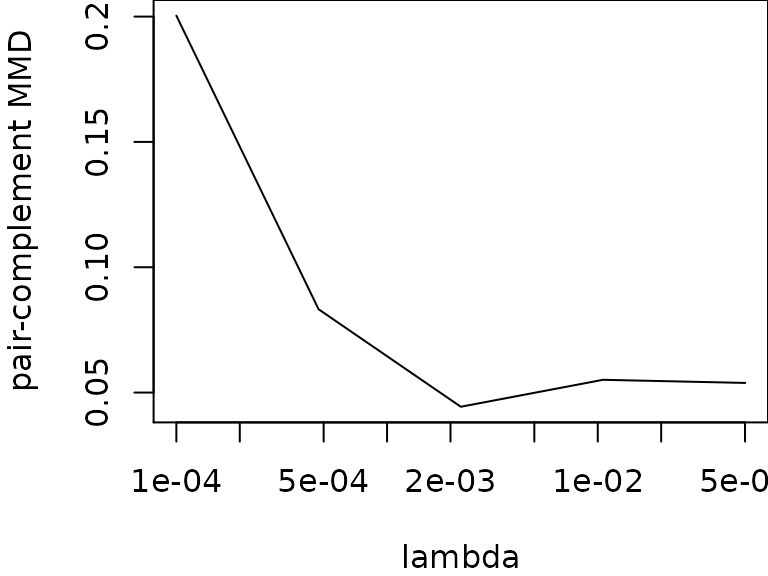
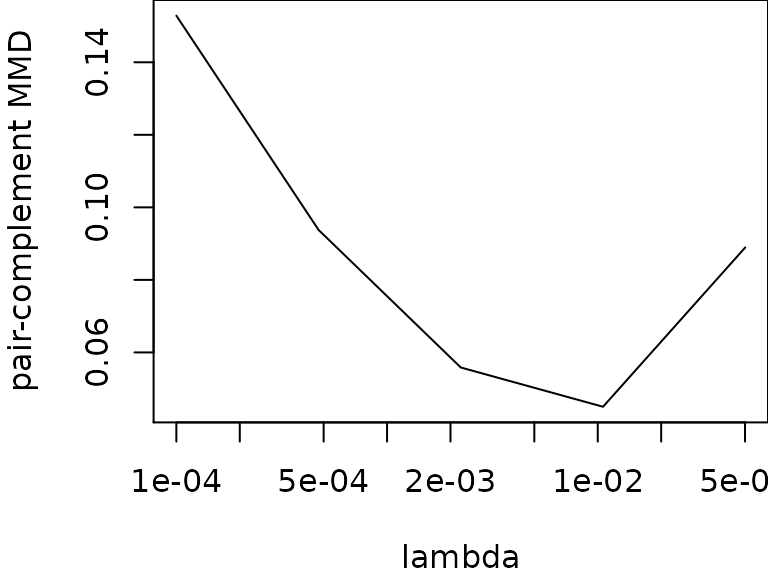
update docs

diff --git a/docs/articles/basic-app.html b/docs/articles/basic-app.html
@@ -104,32 +104,32 @@
 <span class="va">out</span> <span class="op">=</span> <span class="fu"><a href="../reference/fit_pois_glmnet_mmdcv.html">fit_pois_glmnet_mmdcv</a></span><span class="op">(</span><span class="va">X</span>, nlam <span class="op">=</span> <span class="fl">5</span>, nreps <span class="op">=</span> <span class="fl">3</span><span class="op">)</span> 
 <span class="co">#&gt; --- Starting CV ---</span>
 <span class="co">#&gt; Rep 1/3 ... </span>
-<span class="co">#&gt; POIS: glment, global, nocv ... 0.221 (s).</span>
-<span class="co">#&gt; lam = 1.00e-04    [Computing pair-comp. MMD (nBasis = 64, nPairs = 66) ... 0.3 (s).  value = 0.192]</span>
-<span class="co">#&gt; lam = 4.73e-04    [Computing pair-comp. MMD (nBasis = 64, nPairs = 66) ... 0.2 (s).  value = 0.133]</span>
-<span class="co">#&gt; lam = 2.24e-03    [Computing pair-comp. MMD (nBasis = 64, nPairs = 66) ... 0.3 (s).  value = 0.069]</span>
-<span class="co">#&gt; lam = 1.06e-02    [Computing pair-comp. MMD (nBasis = 64, nPairs = 66) ... 0.3 (s).  value = 0.148]</span>
-<span class="co">#&gt; lam = 5.01e-02    [Computing pair-comp. MMD (nBasis = 64, nPairs = 66) ... 0.3 (s).  value = 0.093]</span>
-<span class="co">#&gt; Rep 2/3 ... </span>
-<span class="co">#&gt; POIS: glment, global, nocv ... 0.240 (s).</span>
-<span class="co">#&gt; lam = 1.00e-04    [Computing pair-comp. MMD (nBasis = 64, nPairs = 66) ... 0.3 (s).  value = 0.320]</span>
+<span class="co">#&gt; POIS: glment, global, nocv ... 0.226 (s).</span>
+<span class="co">#&gt; lam = 1.00e-04    [Computing pair-comp. MMD (nBasis = 64, nPairs = 66) ... 0.4 (s).  value = 0.143]</span>
 <span class="co">#&gt; lam = 4.73e-04    [Computing pair-comp. MMD (nBasis = 64, nPairs = 66) ... 0.3 (s).  value = 0.105]</span>
-<span class="co">#&gt; lam = 2.24e-03    [Computing pair-comp. MMD (nBasis = 64, nPairs = 66) ... 0.2 (s).  value = 0.030]</span>
-<span class="co">#&gt; lam = 1.06e-02    [Computing pair-comp. MMD (nBasis = 64, nPairs = 66) ... 0.2 (s).  value = 0.007]</span>
-<span class="co">#&gt; lam = 5.01e-02    [Computing pair-comp. MMD (nBasis = 64, nPairs = 66) ... 0.2 (s).  value = 0.004]</span>
+<span class="co">#&gt; lam = 2.24e-03    [Computing pair-comp. MMD (nBasis = 64, nPairs = 66) ... 0.3 (s).  value = 0.132]</span>
+<span class="co">#&gt; lam = 1.06e-02    [Computing pair-comp. MMD (nBasis = 64, nPairs = 66) ... 0.3 (s).  value = 0.104]</span>
+<span class="co">#&gt; lam = 5.01e-02    [Computing pair-comp. MMD (nBasis = 64, nPairs = 66) ... 0.5 (s).  value = 0.170]</span>
+<span class="co">#&gt; Rep 2/3 ... </span>
+<span class="co">#&gt; POIS: glment, global, nocv ... 0.408 (s).</span>
+<span class="co">#&gt; lam = 1.00e-04    [Computing pair-comp. MMD (nBasis = 64, nPairs = 66) ... 0.4 (s).  value = 0.245]</span>
+<span class="co">#&gt; lam = 4.73e-04    [Computing pair-comp. MMD (nBasis = 64, nPairs = 66) ... 0.3 (s).  value = 0.128]</span>
+<span class="co">#&gt; lam = 2.24e-03    [Computing pair-comp. MMD (nBasis = 64, nPairs = 66) ... 0.3 (s).  value = 0.020]</span>
+<span class="co">#&gt; lam = 1.06e-02    [Computing pair-comp. MMD (nBasis = 64, nPairs = 66) ... 0.3 (s).  value = 0.019]</span>
+<span class="co">#&gt; lam = 5.01e-02    [Computing pair-comp. MMD (nBasis = 64, nPairs = 66) ... 0.3 (s).  value = 0.031]</span>
 <span class="co">#&gt; Rep 3/3 ... </span>
-<span class="co">#&gt; POIS: glment, global, nocv ... 0.194 (s).</span>
-<span class="co">#&gt; lam = 1.00e-04    [Computing pair-comp. MMD (nBasis = 64, nPairs = 66) ... 0.3 (s).  value = 0.089]</span>
-<span class="co">#&gt; lam = 4.73e-04    [Computing pair-comp. MMD (nBasis = 64, nPairs = 66) ... 0.2 (s).  value = 0.012]</span>
-<span class="co">#&gt; lam = 2.24e-03    [Computing pair-comp. MMD (nBasis = 64, nPairs = 66) ... 0.2 (s).  value = 0.034]</span>
-<span class="co">#&gt; lam = 1.06e-02    [Computing pair-comp. MMD (nBasis = 64, nPairs = 66) ... 0.2 (s).  value = 0.010]</span>
-<span class="co">#&gt; lam = 5.01e-02    [Computing pair-comp. MMD (nBasis = 64, nPairs = 66) ... 0.3 (s).  value = 0.064]</span>
-<span class="co">#&gt; --- End of CV --- Chose lam = 0.00</span>
+<span class="co">#&gt; POIS: glment, global, nocv ... 0.189 (s).</span>
+<span class="co">#&gt; lam = 1.00e-04    [Computing pair-comp. MMD (nBasis = 64, nPairs = 66) ... 0.2 (s).  value = 0.070]</span>
+<span class="co">#&gt; lam = 4.73e-04    [Computing pair-comp. MMD (nBasis = 64, nPairs = 66) ... 0.2 (s).  value = 0.048]</span>
+<span class="co">#&gt; lam = 2.24e-03    [Computing pair-comp. MMD (nBasis = 64, nPairs = 66) ... 0.2 (s).  value = 0.016]</span>
+<span class="co">#&gt; lam = 1.06e-02    [Computing pair-comp. MMD (nBasis = 64, nPairs = 66) ... 0.2 (s).  value = 0.012]</span>
+<span class="co">#&gt; lam = 5.01e-02    [Computing pair-comp. MMD (nBasis = 64, nPairs = 66) ... 0.2 (s).  value = 0.066]</span>
+<span class="co">#&gt; --- End of CV --- Chose lam = 0.01</span>
 <span class="co">#&gt; Fitting the final model ... </span>
-<span class="co">#&gt; POIS: glment, global, nocv ... 0.187 (s).</span>
+<span class="co">#&gt; POIS: glment, global, nocv ... 0.195 (s).</span>
 <span class="va">opt_idx</span> <span class="op">=</span> <span class="va">out</span><span class="op">$</span><span class="va">opt_idx</span>
 <span class="fu">printf</span><span class="op">(</span><span class="st">'Optimal model = #%d, with lambda = %3.2e'</span>, <span class="va">opt_idx</span>, <span class="va">out</span><span class="op">$</span><span class="va">opt_lambda</span><span class="op">)</span>
-<span class="co">#&gt; Optimal model = #3, with lambda = 2.24e-03</span></pre></div>
+<span class="co">#&gt; Optimal model = #4, with lambda = 1.06e-02</span></pre></div>
 <p>Let us also plot the regularization curve (pair-complement MMDvs. <span class="math inline">\(\lambda\)</span>):</p>
 <div class="sourceCode" id="cb6"><pre class="downlit">
 <span class="fu"><a href="https://rdrr.io/r/graphics/par.html">par</a></span><span class="op">(</span>mar <span class="op">=</span> <span class="fu"><a href="https://rdrr.io/r/base/c.html">c</a></span><span class="op">(</span><span class="fl">4</span>,<span class="fl">4</span>,<span class="fl">0</span>,<span class="fl">0</span><span class="op">)</span><span class="op">)</span>
@@ -141,7 +141,7 @@
 <span class="fu"><a href="https://rdrr.io/r/base/print.html">print</a></span><span class="op">(</span><span class="va">model</span><span class="op">)</span>
 <span class="co">#&gt; Pois model with dimension = 12 and # of levels 4.</span>
 <span class="co">#&gt; Pervalance of -Inf in Theta = 0.479167</span></pre></div>
-<p>… and plot its <span class="math inline">\(\Gamma\)</span> paramter, i.e., POIS’s the interaction matrix:</p>
+<p>… and plot its <span class="math inline">\(\Gamma\)</span> paramter, i.e., POIS’s interaction matrix:</p>
 <div class="sourceCode" id="cb8"><pre class="downlit">
 <span class="fu"><a href="https://rdrr.io/r/graphics/par.html">par</a></span><span class="op">(</span>mar <span class="op">=</span> <span class="fu"><a href="https://rdrr.io/r/base/c.html">c</a></span><span class="op">(</span><span class="fl">0</span>,<span class="fl">0</span>,<span class="fl">0</span>,<span class="fl">0</span><span class="op">)</span><span class="op">)</span>
 <span class="va">corr_type</span> <span class="op">=</span> <span class="st">"upper"</span> <span class="co"># "full"</span>

diff --git a/docs/reference/fit_pois_glmnet_nocv.html b/docs/reference/fit_pois_glmnet_nocv.html
@@ -160,7 +160,7 @@ lambda is provided.</p></td>
 
     <h2 class="hasAnchor" id="examples"><a class="anchor" href="#examples"></a>Examples</h2>
     <pre class="examples"><div class='input'><span class='va'>out</span> <span class='op'>=</span> <span class='fu'>fit_pois_glmnet_nocv</span><span class='op'>(</span><span class='va'>amazon</span>, lambda <span class='op'>=</span> <span class='fl'>10</span><span class='op'>^</span><span class='fu'><a href='https://rdrr.io/r/base/seq.html'>seq</a></span><span class='op'>(</span><span class='op'>-</span><span class='fl'>4</span>,<span class='op'>-</span><span class='fl'>1.3</span>, length.out <span class='op'>=</span> <span class='fl'>5</span><span class='op'>)</span><span class='op'>)</span>
-</div><div class='output co'>#&gt; POIS: glment, global, nocv ... 1.241 (s).</div></pre>
+</div><div class='output co'>#&gt; POIS: glment, global, nocv ... 1.263 (s).</div></pre>
   </div>
   <div class="col-md-3 hidden-xs hidden-sm" id="pkgdown-sidebar">
     <nav id="toc" data-toggle="toc" class="sticky-top">

diff --git a/docs/reference/pois.html b/docs/reference/pois.html
@@ -6,7 +6,7 @@
 <meta http-equiv="X-UA-Compatible" content="IE=edge">
 <meta name="viewport" content="width=device-width, initial-scale=1.0">
 
-<title>Constructor a POIS model — pois • pois</title>
+<title>Construct a POIS model — pois • pois</title>
 
 
 <!-- jquery -->
@@ -39,7 +39,7 @@
 
 
 
-<meta property="og:title" content="Constructor a POIS model — pois" />
+<meta property="og:title" content="Construct a POIS model — pois" />
 <meta property="og:description" content="Creates an object of the POIS model class" />
 
 
@@ -109,7 +109,7 @@
 <div class="row">
   <div class="col-md-9 contents">
     <div class="page-header">
-    <h1>Constructor a POIS model</h1>
+    <h1>Construct a POIS model</h1>
     
     <div class="hidden name"><code>pois.Rd</code></div>
     </div>

diff --git a/docs/index.html b/docs/index.html
@@ -74,6 +74,7 @@ This is an R package. You can install it by issuing the following commands:
 install.packages("devtools")
 devtools::install_github("aaamini/pois")
 </pre>
+<p>Check out <a href="https://aaamini.github.io/pois/articles/basic-app.html">Basic Application</a> for how to use some of the functionality.</p>
 <p>If you use this code please cite the following paper:</p>
 <p>Zahra S. Razaee and Arash A. Amini, The Potts-Ising model for discrete multivariate data, NeurIPS 2020.</p>
 </div>

diff --git a/docs/reference/index.html b/docs/reference/index.html
@@ -154,7 +154,7 @@
         <td>
           <p><code><a href="pois.html">pois()</a></code> </p>
         </td>
-        <td><p>Constructor a POIS model</p></td>
+        <td><p>Construct a POIS model</p></td>
       </tr><tr>
         
         <td>
